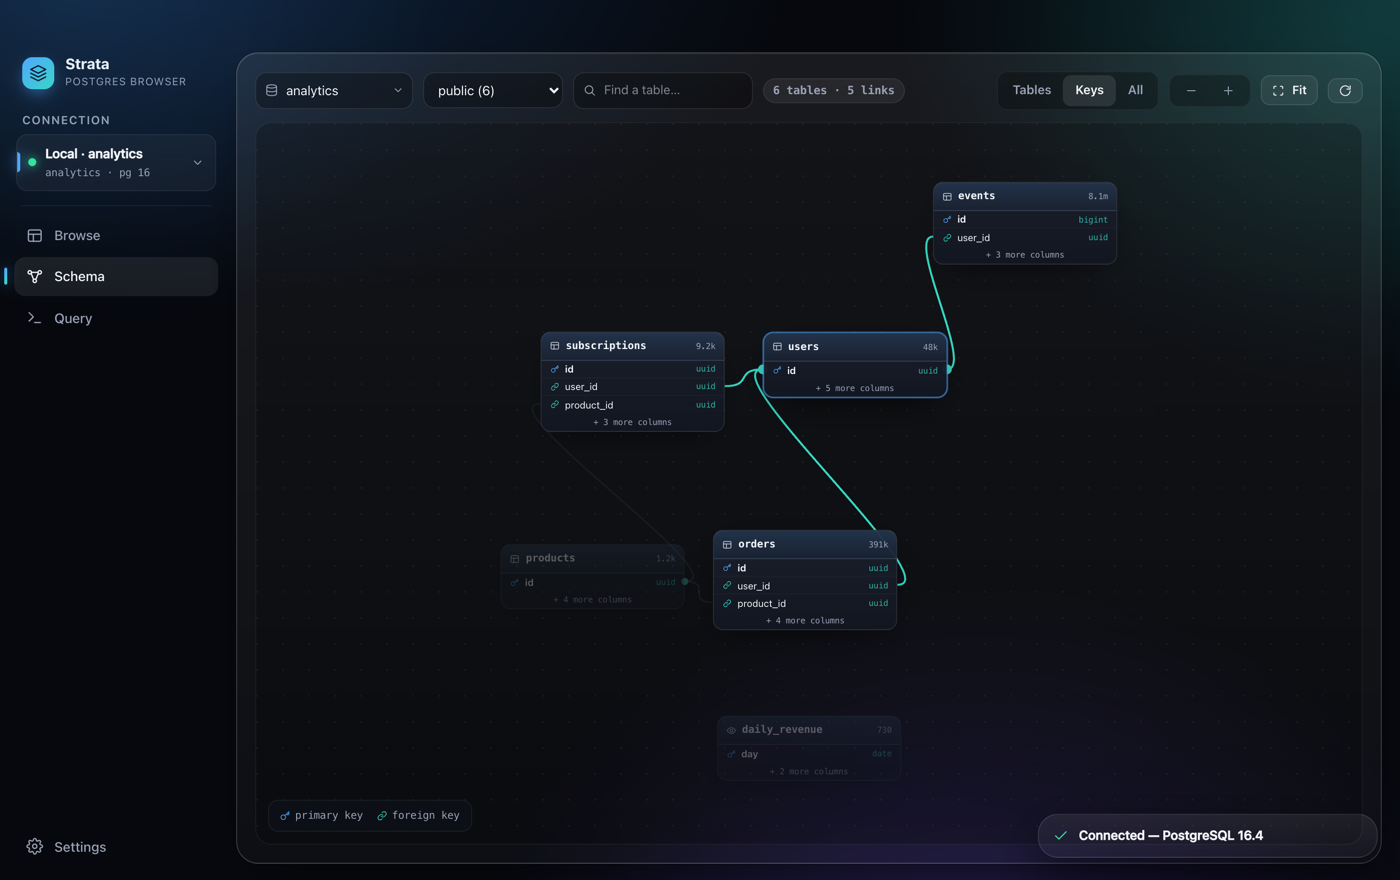
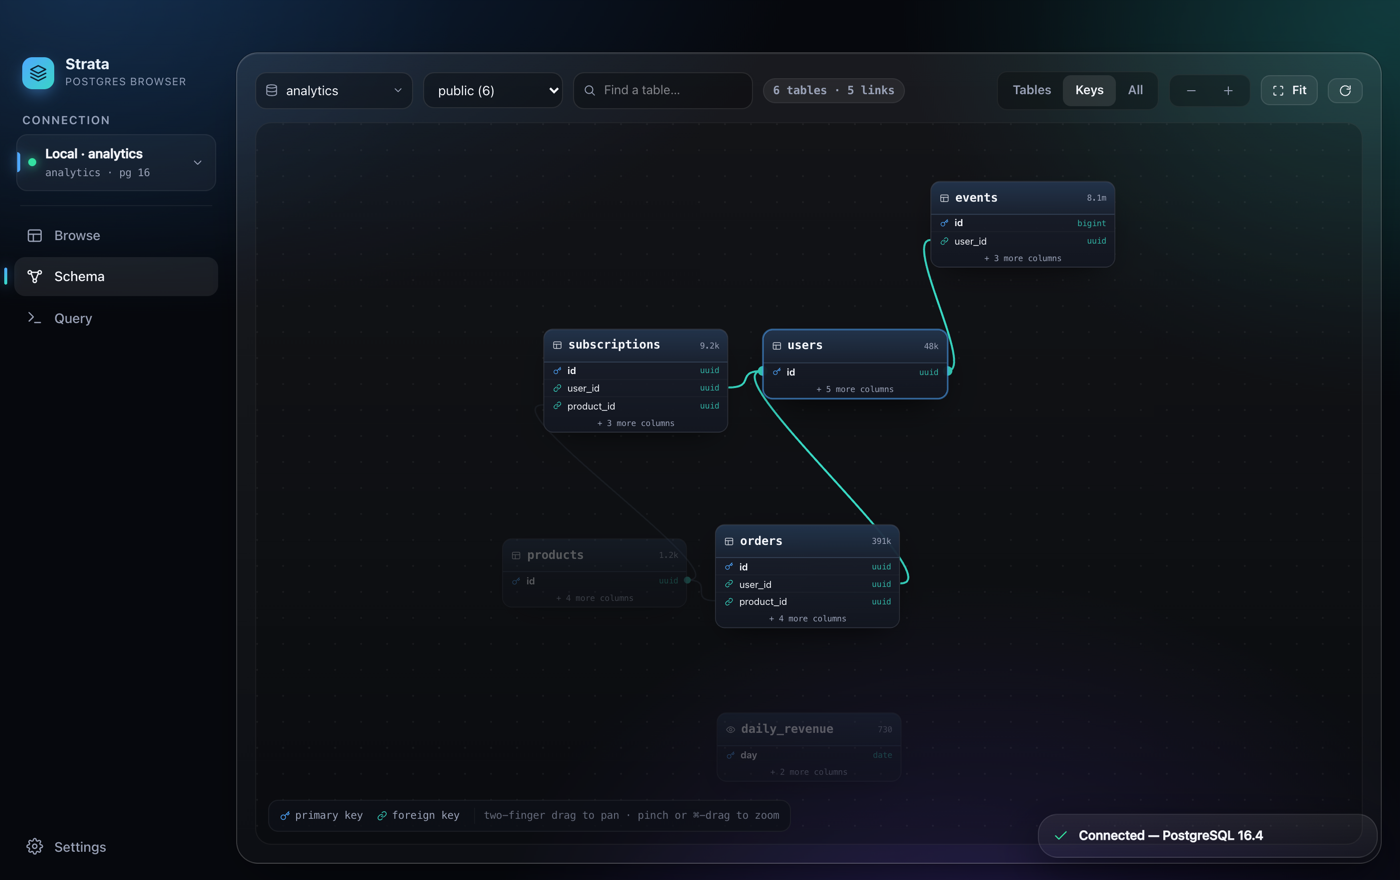
Trackpad gestures + bigger table titles in the schema explorer
- Two-finger drag pans, pinch zooms (toward the cursor), and ⌘-drag zooms
  vertically. Implemented with non-passive native listeners so the WKWebView's
  own pinch-zoom and two-finger back-swipe are suppressed; pinch is read from
  Safari gesture* events, with ctrl+wheel as the dev-browser fallback. Plain
  left-drag still pans and moves cards. A gesture hint sits in the legend.
- Larger, bolder table-name titles (14.5px) with a taller header for
  readability.
- Fix: panning/zooming no longer clears the current selection (track movement
  in a ref read by the click handlers).

diff --git a/src/views/Schema.tsx b/src/views/Schema.tsx
@@ -9,8 +9,8 @@ import { DatabasePicker } from "../components/DatabasePicker";
 import { Empty, Spinner } from "../components/ui";
 
 // Node geometry — must match the CSS in styles.css (.erd-node).
-const NODE_W = 220;
-const HEADER_H = 34;
+const NODE_W = 224;
+const HEADER_H = 40;
 const ROW_H = 21;
 const PAD_B = 7;
 
@@ -201,7 +201,12 @@ export function Schema({
   const [view, setView] = useState({ x: 0, y: 0, z: 1 }); // pan + zoom
 
   const vpRef = useRef<HTMLDivElement>(null);
-  const drag = useRef<{ kind: "pan" | "node"; name?: string; sx: number; sy: number; ox: number; oy: number; moved: boolean } | null>(null);
+  const drag = useRef<
+    | { kind: "pan" | "node"; name?: string; sx: number; sy: number; ox: number; oy: number }
+    | { kind: "zoom"; sy: number; mx: number; my: number; z0: number; vx0: number; vy0: number }
+    | null
+  >(null);
+  const movedRef = useRef(false); // distinguishes a drag from a click (read by click handlers)
   const gRef = useRef<SchemaGraph | null>(null);
   const layRef = useRef<Layout>({});
   const viewRef = useRef(view);
@@ -309,13 +314,20 @@ export function Schema({
     if (doFit()) fittedRef.current = true;
   }
 
-  // ----- pan / node drag (stable handlers so memoised nodes don't rebuild) -----
+  // ----- drag: pan background, move a node, or ⌘-drag to zoom -----
+  // (stable handlers so the memoised node/edge subtree doesn't rebuild)
   const onMove = useCallback((e: MouseEvent) => {
     const d = drag.current;
     if (!d) return;
+    if (d.kind === "zoom") {
+      movedRef.current = true;
+      const nz = Math.min(2, Math.max(0.12, d.z0 * Math.exp((d.sy - e.clientY) * 0.005)));
+      setView({ z: nz, x: d.mx - ((d.mx - d.vx0) / d.z0) * nz, y: d.my - ((d.my - d.vy0) / d.z0) * nz });
+      return;
+    }
     const dx = e.clientX - d.sx;
     const dy = e.clientY - d.sy;
-    if (Math.abs(dx) + Math.abs(dy) > 3) d.moved = true;
+    if (Math.abs(dx) + Math.abs(dy) > 3) movedRef.current = true;
     if (d.kind === "pan") {
       setView((v) => ({ ...v, x: d.ox + dx, y: d.oy + dy }));
     } else if (d.name) {
@@ -331,9 +343,16 @@ export function Schema({
   const onPointerDown = useCallback((e: React.MouseEvent, name?: string) => {
     if (e.button !== 0) return;
     e.stopPropagation();
+    movedRef.current = false;
     const v = viewRef.current;
-    const p = name ? layRef.current[name] : null;
-    drag.current = { kind: name ? "node" : "pan", name, sx: e.clientX, sy: e.clientY, ox: name && p ? p.x : v.x, oy: name && p ? p.y : v.y, moved: false };
+    // ⌘ + drag on the background = zoom (vertical), anchored at the cursor
+    if (!name && (e.metaKey || e.altKey)) {
+      const rect = vpRef.current!.getBoundingClientRect();
+      drag.current = { kind: "zoom", sy: e.clientY, mx: e.clientX - rect.left, my: e.clientY - rect.top, z0: v.z, vx0: v.x, vy0: v.y };
+    } else {
+      const p = name ? layRef.current[name] : null;
+      drag.current = { kind: name ? "node" : "pan", name, sx: e.clientX, sy: e.clientY, ox: name && p ? p.x : v.x, oy: name && p ? p.y : v.y };
+    }
     window.addEventListener("mousemove", onMove);
     window.addEventListener("mouseup", onUp);
   }, [onMove, onUp]);
@@ -343,20 +362,54 @@ export function Schema({
     setExpanded((s) => { const n = new Set(s); n.has(name) ? n.delete(name) : n.add(name); return n; });
   }, []);
   const clickNode = useCallback((name: string) => {
-    if (drag.current?.moved) return; // a drag, not a click
+    if (movedRef.current) return; // a drag, not a click
     setSel((s) => (s === name ? null : name));
   }, []);
 
-  function onWheel(e: React.WheelEvent) {
+  // Trackpad gestures via non-passive native listeners (React's onWheel is
+  // passive, so it can't preventDefault the WKWebView's own pinch-zoom and
+  // two-finger back-swipe; pinch arrives as Safari gesture* events, not wheel).
+  // Two-finger drag → pan · pinch → zoom · also ctrl+wheel → zoom (dev browser).
+  useEffect(() => {
     const vp = vpRef.current;
     if (!vp) return;
-    const rect = vp.getBoundingClientRect();
-    const mx = e.clientX - rect.left, my = e.clientY - rect.top;
-    setView((v) => {
-      const nz = Math.min(2, Math.max(0.12, v.z * (e.deltaY < 0 ? 1.12 : 0.89)));
-      return { z: nz, x: mx - ((mx - v.x) / v.z) * nz, y: my - ((my - v.y) / v.z) * nz };
-    });
-  }
+    const clamp = (z: number) => Math.min(2, Math.max(0.12, z));
+    const onWheel = (e: WheelEvent) => {
+      e.preventDefault();
+      const rect = vp.getBoundingClientRect();
+      if (e.ctrlKey) {
+        const mx = e.clientX - rect.left, my = e.clientY - rect.top;
+        const f = Math.min(1.6, Math.max(0.62, Math.exp(-e.deltaY * 0.01)));
+        setView((v) => ({ z: clamp(v.z * f), x: mx - ((mx - v.x) / v.z) * clamp(v.z * f), y: my - ((my - v.y) / v.z) * clamp(v.z * f) }));
+      } else {
+        setView((v) => ({ ...v, x: v.x - e.deltaX, y: v.y - e.deltaY }));
+      }
+    };
+    let gz = { z0: 1, mx: 0, my: 0, vx0: 0, vy0: 0 };
+    const onGestureStart = (e: any) => {
+      e.preventDefault();
+      const rect = vp.getBoundingClientRect();
+      const v = viewRef.current;
+      gz = { z0: v.z, mx: e.clientX - rect.left, my: e.clientY - rect.top, vx0: v.x, vy0: v.y };
+    };
+    const onGestureChange = (e: any) => {
+      e.preventDefault();
+      const nz = clamp(gz.z0 * e.scale);
+      setView({ z: nz, x: gz.mx - ((gz.mx - gz.vx0) / gz.z0) * nz, y: gz.my - ((gz.my - gz.vy0) / gz.z0) * nz });
+    };
+    const prevent = (e: Event) => e.preventDefault();
+    vp.addEventListener("wheel", onWheel, { passive: false });
+    vp.addEventListener("gesturestart", onGestureStart as EventListener, { passive: false });
+    vp.addEventListener("gesturechange", onGestureChange as EventListener, { passive: false });
+    vp.addEventListener("gestureend", prevent as EventListener, { passive: false });
+    return () => {
+      vp.removeEventListener("wheel", onWheel);
+      vp.removeEventListener("gesturestart", onGestureStart as EventListener);
+      vp.removeEventListener("gesturechange", onGestureChange as EventListener);
+      vp.removeEventListener("gestureend", prevent as EventListener);
+    };
+    // eslint-disable-next-line react-hooks/exhaustive-deps
+  }, [connId]);
 
   function focusNode(name: string) {
     const vp = vpRef.current;
@@ -552,8 +605,7 @@ export function Schema({
         ref={vpRef}
         className="erd-viewport no-drag"
         onMouseDown={(e) => onPointerDown(e)}
-        onWheel={onWheel}
-        onClick={() => { if (!drag.current?.moved) setSel(null); }}
+        onClick={() => { if (!movedRef.current) setSel(null); }}
       >
         {graph.loading && graph.initial && (
           <div style={{ position: "absolute", inset: 0, display: "grid", placeItems: "center" }}><Spinner size={22} /></div>
@@ -578,6 +630,7 @@ export function Schema({
           <div className="erd-legend mono">
             <span><span style={{ color: "var(--accent)" }}><Icon.key w={10} /></span> primary key</span>
             <span><span style={{ color: "var(--accent-2)" }}><Icon.link w={10} /></span> foreign key</span>
+            <span className="erd-hint">two-finger drag to pan · pinch or ⌘-drag to zoom</span>
           </div>
         )}
       </div>

diff --git a/src/styles.css b/src/styles.css
@@ -376,7 +376,7 @@ body.no-native {
   border-bottom: 1px solid var(--hair);
 }
 .erd-node-head .nm {
-  flex: 1; min-width: 0; font-size: 12.5px; font-weight: 650; letter-spacing: -0.01em;
+  flex: 1; min-width: 0; font-size: 14.5px; font-weight: 680; letter-spacing: -0.01em;
   overflow: hidden; text-overflow: ellipsis; white-space: nowrap; color: var(--text);
 }
 .erd-kind { font-size: 10px; color: var(--muted); font-family: "SF Mono", ui-monospace, Menlo, monospace; flex-shrink: 0; }
@@ -408,6 +408,7 @@ body.no-native {
   backdrop-filter: blur(10px);
 }
 .erd-legend span { display: inline-flex; align-items: center; gap: 5px; }
+.erd-legend .erd-hint { opacity: 0.62; padding-left: 9px; border-left: 1px solid var(--hair-soft); }
 
 /* table list rows (left panel) */
 .tbl-item {